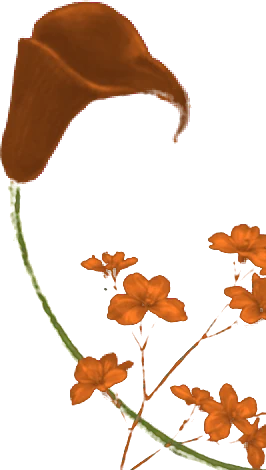
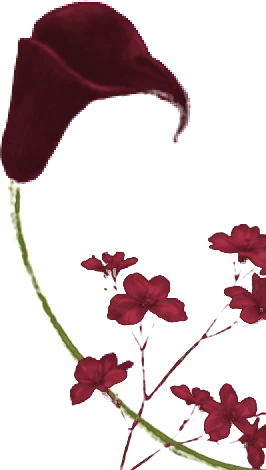
Flores nos tons do selo, rosa e branco

diff --git a/index.html b/index.html
@@ -10,8 +10,8 @@
 <meta property="og:title" content="Isis Paranho Viana · Formatura em Medicina">
 <meta property="og:description" content="Você é meu convidado especial. Toque para abrir o convite.">
 <meta property="og:url" content="https://isisparanho-debug.github.io/formatura/">
-<meta property="og:image" content="https://isisparanho-debug.github.io/formatura/og7.jpg">
-<meta property="og:image:secure_url" content="https://isisparanho-debug.github.io/formatura/og7.jpg">
+<meta property="og:image" content="https://isisparanho-debug.github.io/formatura/og8.jpg">
+<meta property="og:image:secure_url" content="https://isisparanho-debug.github.io/formatura/og8.jpg">
 <meta property="og:image:type" content="image/jpeg">
 <meta property="og:locale" content="pt_BR">
 <meta property="og:image:width" content="1200"><meta property="og:image:height" content="630">
